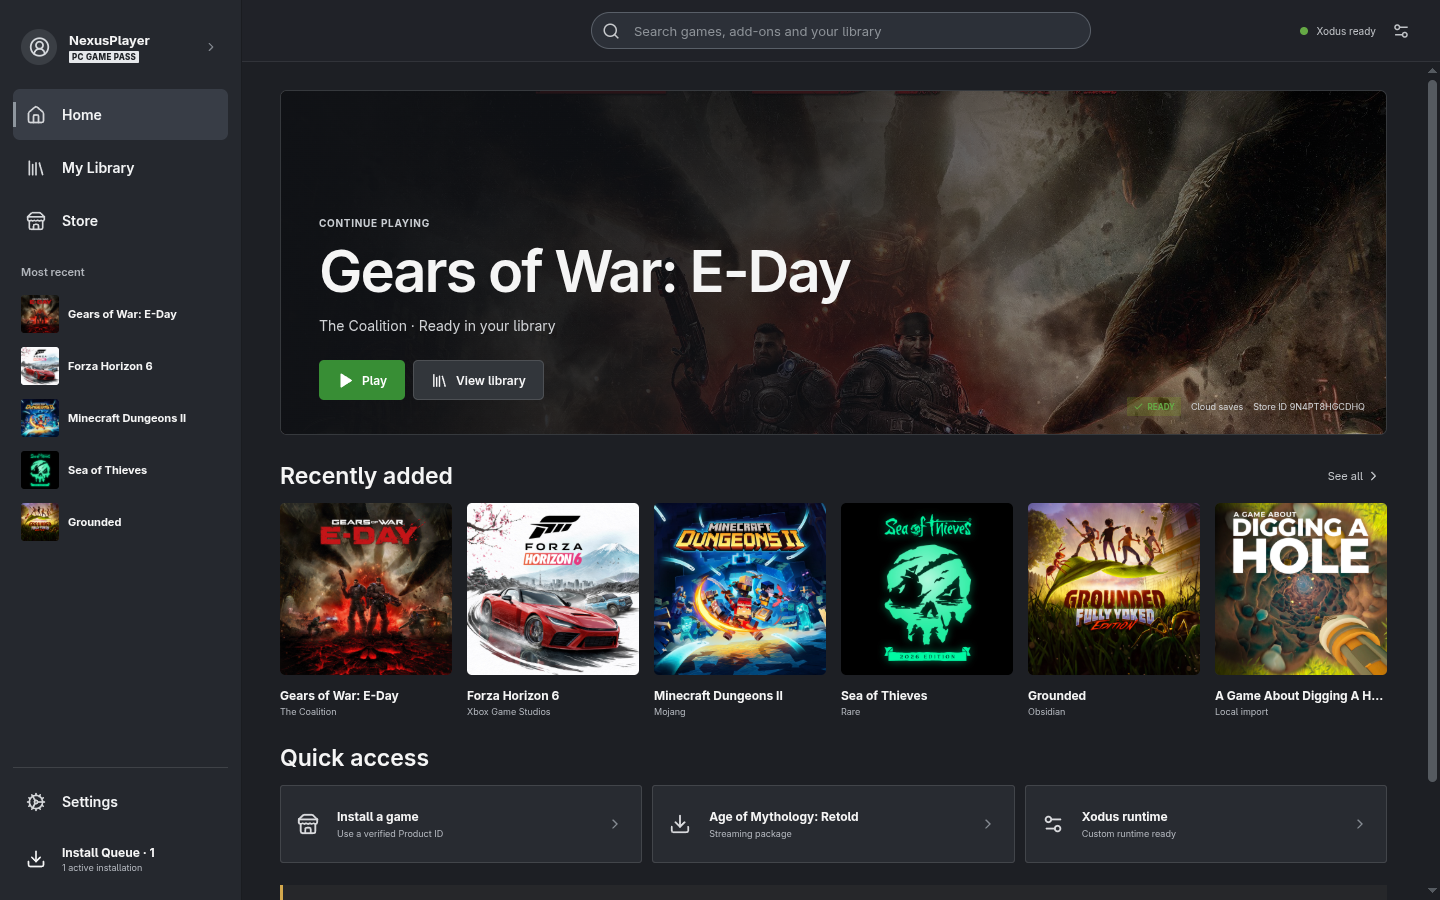
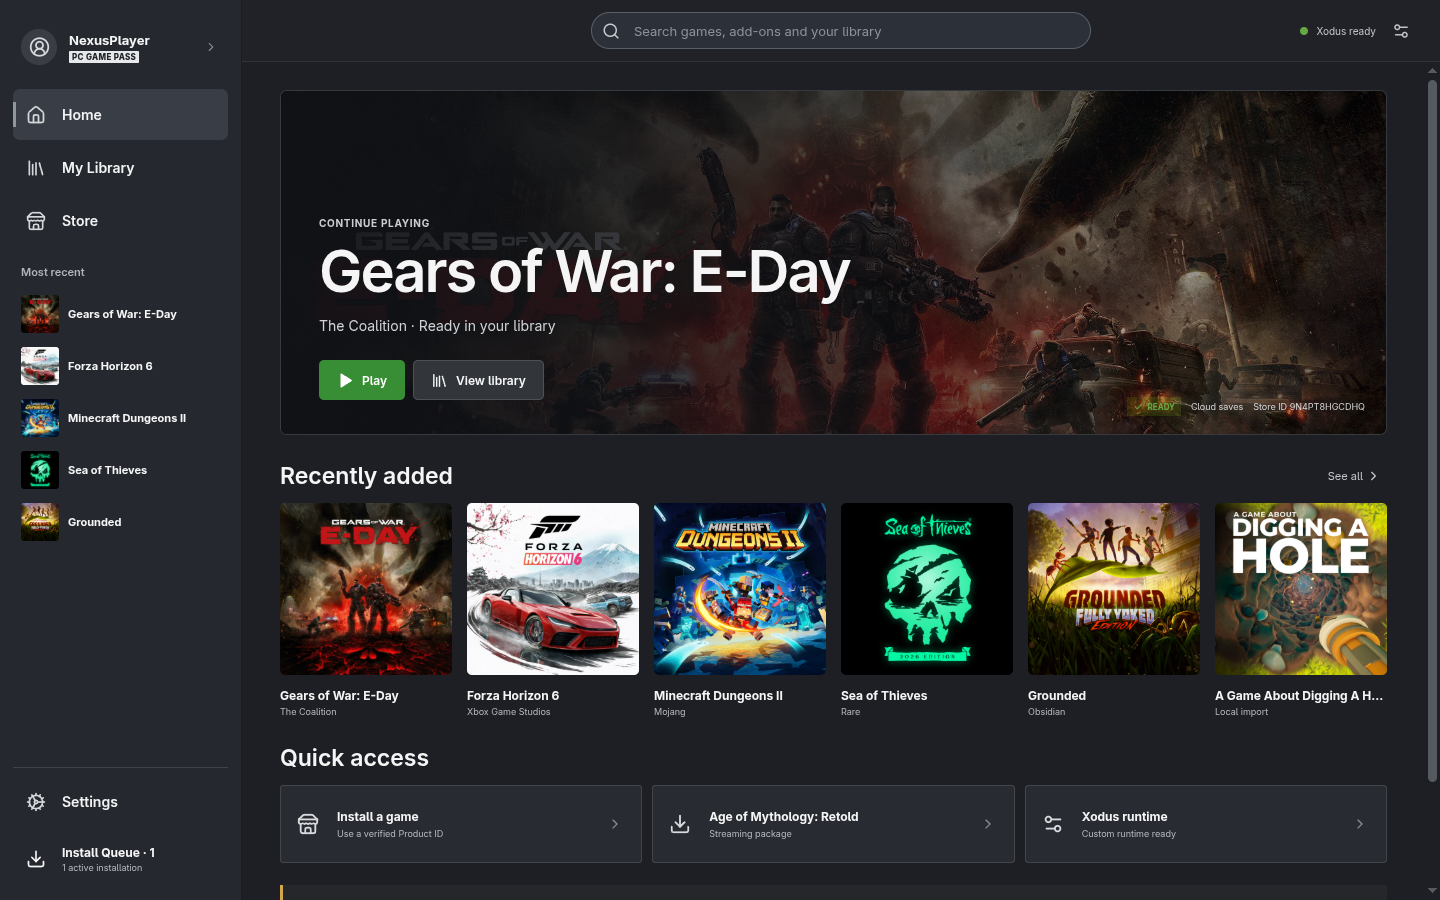
Fix default Proton game launches and prepare launcher 0.3.4

Changed region(s): [[0.4688, 0.0933, 0.9688, 0.4978], [0.9062, 0.0933, 0.9375, 0.1244], [0.375, 0.2489, 0.4062, 0.28]]

diff --git a/src/main/index.ts b/src/main/index.ts
@@ -7,7 +7,8 @@ import { randomUUID } from 'node:crypto';
 import type { ChildProcessWithoutNullStreams } from 'node:child_process';
 import type { AppSnapshot, AuthStatus, DownloadTask, Game, GameLaunchOptions, GameOperation, GameUpdate, InstallRequest, Settings } from '../shared/types.js';
 import { downloadFailure, safeProductId } from '../shared/utils.js';
-import { demoAccountLibrary, demoAccountProducts, demoDownloads, demoGames, demoLaunchOptions, demoLocales, demoSnapshot } from '../shared/demo-data.js';
+import { demoAccountLibrary, demoAccountProducts, demoDownloads, demoGames, demoLaunchOptions, demoLocales, demoSnapshot, type DemoArtwork } from '../shared/demo-data.js';
+import { backendLock } from './backend-package.js';
 import { BackendManager } from './backend.js';
 import { run, spawnTracked } from './process.js';
 import { inspectGameDirectory, StateStore } from './store.js';
@@ -21,7 +22,7 @@ import { validateGameTrashTarget } from './game-removal.js';
 import { spawnGameProcess, type GameProcess } from './game-process.js';
 import { gameLocaleEnvironment, manifestLocales, manifestTitleId, supportedGameLocale } from './game-locale.js';
 import { antiCheatEnvironment } from './anti-cheat.js';
-import { gameLaunchArguments } from './game-launch.js';
+import { gameLaunchArguments, preparedGameWine } from './game-launch.js';
 import { prepareGameWrapper, type GameWrapper } from './game-wrapper.js';
 import { normalizeLaunchTools } from '../shared/launch-tools.js';
 import { LauncherUpdater } from './launcher-update.js';
@@ -64,7 +65,7 @@ let authJob: Promise<void> | undefined;
 const catalog = new CatalogService();
 const accountLibrary = new AccountLibrary((ids, market) => catalog.licensedProducts(ids, market));
 const demoMode = process.env.XODUS_DEMO === '1';
-const demoCoverUrls = new Map<string, string>();
+const demoArtwork = new Map<string, DemoArtwork>();
 let launcherUpdater: LauncherUpdater;
 const gameUpdates: Record<string, GameUpdate> = {};
 let checkingGameUpdates = false;
@@ -134,7 +135,8 @@ function receiveLaunchRequest(id?: string): void {
 }
 
 function snapshot(): AppSnapshot {
-  if (demoMode) return demoSnapshot(demoCoverUrls);
+  if (demoMode) return demoSnapshot({ launcher: app.getVersion(), backend: backendLock.version,
+    backendCommit: backendLock.commit, backendCompatibility: backendLock.compatibility }, demoArtwork);
   return {
     backend: backend.current,
     runtime: runtime.current,
@@ -652,7 +654,7 @@ async function prepareGameLaunch(id: string): Promise<void> {
     launchWrapper = await prepareGameWrapper(wine, game.launchTools, path.join(dataRoot, 'launch-wrappers'), process.env, game.path);
     const protonRunner = await prepareProtonRunner(wine, compatibilityDataPath, steamRoot, launchWrapper.command);
     const wineCommand = protonRunner?.command ?? wine;
-    args[2] = protonRunner?.launchCommand ?? launchWrapper.command;
+    args[2] = preparedGameWine(protonRunner, launchWrapper.command);
     if (inspected.vcRedistEncrypted) {
       if (!protonRunner) throw new Error('This encrypted VC++ prerequisite requires a Proton prefix. Select Xodus Runtime in Settings.');
       const installed = await installedVcRuntimeVersion(path.join(compatibilityDataPath, 'pfx'));
@@ -871,7 +873,7 @@ async function loadDemoCovers(): Promise<void> {
     ...demoDownloads.flatMap((task) => (task.productId ? [task.productId] : [])),
     ...demoAccountProducts.map(product => product.productId),
   ])];
-  for (const [id, url] of await catalog.posters(ids, demoSnapshot().settings.market)) demoCoverUrls.set(id, url);
+  for (const [id, images] of await catalog.artwork(ids, snapshot().settings.market)) demoArtwork.set(id, images);
 }
 
 // XODUS_DEMO=1 serves sample state without touching the real backend,
@@ -900,7 +902,7 @@ function registerDemoIpc(catalogMarket: () => string): void {
   ipcMain.handle('logout', () => {});
   ipcMain.handle('catalog-search', (_event, query: string, cursor?: string) => catalog.search(query, catalogMarket(), cursor));
   ipcMain.handle('catalog-featured', () => catalog.featured(catalogMarket()));
-  ipcMain.handle('account-library', (_event, kind: 'all' | 'owned' | 'gamepass') => demoAccountLibrary(kind, demoCoverUrls));
+  ipcMain.handle('account-library', (_event, kind: 'all' | 'owned' | 'gamepass') => demoAccountLibrary(kind, demoArtwork));
   ipcMain.handle('start-install', () => 'demo-download');
   ipcMain.handle('install-plan', () => { throw Error('Package selection is unavailable in demo mode.'); });
   ipcMain.handle('game-content', (_event, id: string) => ({ gameId: id, checkedAt: new Date().toISOString(), items: [] }));
@@ -921,7 +923,7 @@ function registerDemoIpc(catalogMarket: () => string): void {
   ipcMain.handle('create-game-shortcut', () => { throw new Error('Shortcuts are unavailable in demo mode.'); });
   ipcMain.handle('install-game-vc-runtime', () => {});
   ipcMain.handle('cancel-game', () => {});
-  ipcMain.handle('update-settings', (_event, patch: Partial<Settings>) => ({ ...demoSnapshot().settings, ...patch }));
+  ipcMain.handle('update-settings', (_event, patch: Partial<Settings>) => ({ ...snapshot().settings, ...patch }));
   ipcMain.handle('choose-directory', () => null);
   ipcMain.handle('choose-file', () => null);
   ipcMain.handle('open-path', () => {});
@@ -1260,14 +1262,39 @@ async function createWindow(): Promise<void> {
   if (process.env.VITE_DEV_SERVER_URL) await mainWindow.loadURL(`${process.env.VITE_DEV_SERVER_URL}${smokeStore ? '#store' : ''}`);
   else await mainWindow.loadFile(path.join(__dirname, '..', '..', 'dist', 'index.html'), smokeStore ? { hash: 'store' } : undefined);
   if (demoCaptureDir) {
-    // Demo screenshot capture: with XODUS_DEMO=1 and XODUS_DEMO_TOUR=1 the
-    // renderer cycles pages every 7s; grab one shot per page just before
-    // each switch, offscreen, without real account data. Store artwork/catalog
-    // are fetched live; the library and queue are explicitly sample fixtures.
+    // Navigate explicitly so slow image requests cannot move a capture onto
+    // the next tour page. Only sample state and public Store data are used.
     await fs.mkdir(demoCaptureDir, { recursive: true });
+    await mainWindow.webContents.executeJavaScript(`new Promise((resolve, reject) => {
+      const deadline = Date.now() + 5000;
+      const timer = setInterval(() => {
+        if (document.querySelectorAll('.sidebar .nav-item').length >= 4 && document.querySelector('.sidebar .queue-summary')) { clearInterval(timer); resolve(); }
+        else if (Date.now() > deadline) { clearInterval(timer); reject(new Error('Demo navigation did not load')); }
+      }, 50);
+    })`);
+    const artworkUrls = [...new Set([...demoArtwork.values()].flatMap(images => [images.coverUrl, images.heroUrl]).filter(Boolean))];
+    await mainWindow.webContents.executeJavaScript(`Promise.all(${JSON.stringify(artworkUrls)}.map(url => {
+      const image = new Image(); image.src = url; return image.decode();
+    }))`);
     const pages = ['home', 'library', 'store', 'downloads', 'settings'];
+    const labels = ['Home', 'My Library', 'Store', 'Install Queue', 'Settings'];
     for (let index = 0; index < pages.length; index++) {
-      await new Promise((resolve) => setTimeout(resolve, index === 0 ? 6000 : 7000));
+      await mainWindow.webContents.executeJavaScript(`(() => {
+        const button = ${JSON.stringify(pages[index])} === 'downloads' ? document.querySelector('.sidebar .queue-summary')
+          : [...document.querySelectorAll('.sidebar .nav-item')].find(button => button.querySelector('span')?.textContent === ${JSON.stringify(labels[index])});
+        if (!button) throw new Error('Demo navigation is not ready');
+        button.click();
+      })()`);
+      await new Promise((resolve) => setTimeout(resolve, 6000));
+      await mainWindow.webContents.executeJavaScript(`(async () => {
+        await document.fonts.ready;
+        await Promise.race([
+          Promise.all([...document.images].map(image => image.decode().catch(() => {}))),
+          new Promise(resolve => setTimeout(resolve, 5000))
+        ]);
+        const broken = [...document.images].filter(image => !image.complete || image.naturalWidth === 0);
+        if (broken.length) throw new Error('Demo artwork did not finish loading');
+      })()`);
       const image = await mainWindow.webContents.capturePage();
       await fs.writeFile(path.join(demoCaptureDir, `demo-${pages[index]}.png`), image.toPNG());
     }
@@ -1329,7 +1356,11 @@ app.whenReady().then(async () => {
     // Start the cover fetch before createWindow because a demo capture
     // keeps createWindow busy until the tour finishes.
     registerIpc();
-    void loadDemoCovers().then(() => emitSnapshot(), () => { /* Covers are optional. */ });
+    if (process.env.XODUS_DEMO_CAPTURE_DIR) {
+      await loadDemoCovers();
+      if (!snapshot().games[0]?.heroUrl) throw new Error('Wide demo artwork is unavailable; capture cancelled.');
+    }
+    else void loadDemoCovers().then(() => emitSnapshot(), () => { /* Covers are optional. */ });
     await createWindow();
     app.on('activate', () => { if (BrowserWindow.getAllWindows().length === 0) void createWindow(); });
     return;

diff --git a/src/shared/demo-data.ts b/src/shared/demo-data.ts
@@ -5,6 +5,14 @@
 // the real Product IDs below. No real credentials, tokens or account data.
 import type { AccountLibraryPage, AppSnapshot, Game, GameLaunchOptions } from './types.js';
 
+export interface DemoArtwork { coverUrl?: string; heroUrl?: string }
+export interface DemoVersions {
+  launcher: string;
+  backend: string;
+  backendCommit: string;
+  backendCompatibility: string;
+}
+
 // Product IDs are real Microsoft Store products so display-catalog lookups
 // return the genuine published artwork.
 export const demoGames: Game[] = [
@@ -29,37 +37,39 @@ export const demoAccountProducts = [
   { productId: '9NPKGVXPFRSX', title: 'Age of Mythology: Retold', publisher: 'Xbox Game Studios', access: 'gamepass' as const },
 ];
 
-export function demoAccountLibrary(kind: AccountLibraryPage['kind'], covers: ReadonlyMap<string, string>): AccountLibraryPage {
+export function demoAccountLibrary(kind: AccountLibraryPage['kind'], artwork: ReadonlyMap<string, DemoArtwork>): AccountLibraryPage {
   const accessByProductId: AccountLibraryPage['accessByProductId'] = {};
   for (const [index, game] of demoGames.entries()) if (game.storeId) accessByProductId[game.storeId] = index === 1 ? 'owned' : 'gamepass';
   for (const product of demoAccountProducts) accessByProductId[product.productId] = product.access;
   return { kind, checkedAt: new Date().toISOString(), accessByProductId,
     products: demoAccountProducts.filter(product => kind === 'all' || product.access === kind).map(product => ({
       ...product, description: 'Sample library entry for the account-free demo.', categories: [],
-      posterUrl: covers.get(product.productId), installability: 'supported', supportNote: 'Demo data only.',
+      posterUrl: artwork.get(product.productId)?.coverUrl, heroUrl: artwork.get(product.productId)?.heroUrl,
+      installability: 'supported', supportNote: 'Demo data only.',
     })) };
 }
 
-export function demoSnapshot(coverUrls: ReadonlyMap<string, string> = new Map()): AppSnapshot {
+export function demoSnapshot(versions: DemoVersions = { launcher: '0.0.0', backend: '0.0.0',
+  backendCommit: '0'.repeat(40), backendCompatibility: 'demo' }, artwork: ReadonlyMap<string, DemoArtwork> = new Map()): AppSnapshot {
   return {
     backend: {
-      available: true, source: 'managed', binaryPath: '/home/demo/.config/xodus-nexus/xodus-backends/current', commit: '53ea781dcd073e31d7ea68e894134e9c959bff04', upstreamCommit: '53ea781dcd073e31d7ea68e894134e9c959bff04', updateAvailable: false, checking: false, updating: false, externalRoot: '',
+      available: true, source: 'managed', binaryPath: '/home/demo/.config/xodus-nexus/xodus-backends/current', commit: versions.backendCommit, upstreamCommit: versions.backendCommit, updateAvailable: false, checking: false, updating: false, externalRoot: '',
       capabilities: { commands: ['login', 'logout', 'download', 'streaming', 'run', 'license', 'extract', 'profile', 'library'], account: true, profile: true, library: true, login: true, externalAuth: true, logout: true, download: true, streaming: true, streamingProgressJson: true, streamingControls: true, run: true, version: '0.5.0' },
       prerequisites: { git: true, cargo: true, rustc: true, protoc: true },
-      linuxRunPatch: 'linux-run-v14',
-      version: '0.2.2', delivery: 'release', releaseAvailable: true, releaseVersion: '0.2.2',
+      linuxRunPatch: versions.backendCompatibility,
+      version: versions.backend, delivery: 'release', releaseAvailable: true, releaseVersion: versions.backend,
     },
     runtime: {
-      installed: true, checking: false, updating: false, runtimeRoot: '/home/demo/.local/share/xodus-nexus/runtimes', name: 'xodus-nexus-runtime-11.0-20261011-g3fd4ae10', winePath: '/home/demo/.local/share/xodus-nexus/runtimes/releases/xodus-nexus-runtime-11.0-20261011-g3fd4ae10/files/bin/wine', commit: 'af521bf321581c78072a147a74bb9527750a109a', nexusAvailable: true, nexusName: 'xodus-nexus-runtime-11.0-20261011-g3fd4ae10-x86_64.tar.xz', nexusVersion: 'runtime-11.0-20261011-g3fd4ae10', artifactAvailable: false,
+      installed: true, checking: false, updating: false, runtimeRoot: '/home/demo/.local/share/xodus-nexus/runtimes', name: 'xodus-nexus-runtime-demo', winePath: '/home/demo/.local/share/xodus-nexus/runtimes/demo/files/bin/wine', artifactAvailable: false,
       prerequisites: { gh: true, authenticated: true, tar: true, sha512sum: true },
     },
-    games: structuredClone([...demoGames.slice(1, 2), ...demoGames.slice(0, 1), ...demoGames.slice(2)]).map((game) => ({ ...game, coverUrl: game.storeId ? coverUrls.get(game.storeId) : undefined })),
-    downloads: structuredClone(demoDownloads).map((task) => ({ ...task, coverUrl: task.productId ? coverUrls.get(task.productId) : undefined })),
+    games: structuredClone([...demoGames.slice(1, 2), ...demoGames.slice(0, 1), ...demoGames.slice(2)]).map((game) => ({ ...game, ...(game.storeId ? artwork.get(game.storeId) : undefined) })),
+    downloads: structuredClone(demoDownloads).map((task) => ({ ...task, coverUrl: task.productId ? artwork.get(task.productId)?.coverUrl : undefined })),
     settings: { installRoot: '/home/demo/Games/Xodus Nexus', market: 'US', parallelDownloads: 4, winePath: '', externalXodusRoot: '', runtimeRoot: '', verboseLogs: false, firstRunCompleted: true },
     auth: { running: false, stored: true, username: 'sample@example.test', gamertag: 'NexusPlayer',
       subscription: { status: 'active', productIds: ['CFQ7TTC0KGQ8'], checkedAt: new Date().toISOString() },
       lastResult: 'success', note: 'Demo mode: sample data only. Store pages show the live Microsoft Store catalog.' },
-    launcherUpdate: { currentVersion: '0.3.0', checking: false, checkedAt: new Date().toISOString() },
+    launcherUpdate: { currentVersion: versions.launcher, checking: false, checkedAt: new Date().toISOString() },
   };
 }
 

diff --git a/src/main/proton.test.ts b/src/main/proton.test.ts
@@ -8,6 +8,7 @@ import { afterEach, describe, expect, it } from 'vitest';
 import { managedUnrealCultureGameIni, prefixUserLocale, prepareProtonRunner, syncPrefixUserLocale, syncUnrealCultureGameIni } from './proton.js';
 import { prepareGameWrapper } from './game-wrapper.js';
 import { defaultLaunchTools } from '../shared/launch-tools.js';
+import { preparedGameWine } from './game-launch.js';
 
 const created: string[] = [];
 const execFile = promisify(execFileCallback);
@@ -17,7 +18,7 @@ afterEach(async () => {
 });
 
 describe('prepareProtonRunner', () => {
-  it('applies game environment and arguments after runtime defaults, without wrapping setup or Stop', async () => {
+  it.each([false, true])('keeps the prefix and applies game tools only to Play (tools enabled: %s)', async (withTools) => {
     const root=await mkdtemp(path.join(tmpdir(),'nexus-proton-game-tools-')); created.push(root);
     const runtime=path.join(root,'runtime'), wine=path.join(runtime,'files/bin/wine'), compat=path.join(root,'compat');
     await mkdir(path.dirname(wine),{recursive:true}); await mkdir(path.join(runtime,'files/share/default_pfx'),{recursive:true});
@@ -26,13 +27,20 @@ describe('prepareProtonRunner', () => {
     await writeFile(path.join(runtime,'proton'),'#!/bin/sh\nexit 0\n'); await chmod(path.join(runtime,'proton'),0o700);
     await writeFile(wine,'#!/bin/sh\nprintf "%s\\n" "$WINEDLLOVERRIDES" "$DXVK_HUD" "$WINEPREFIX"; printf "<%s>\\n" "$@"\n'); await chmod(wine,0o700);
     await writeFile(path.join(runtime,'files/bin/wineserver'),'#!/bin/sh\nexit 0\n'); await chmod(path.join(runtime,'files/bin/wineserver'),0o700);
-    const wrapper=await prepareGameWrapper(wine,{...defaultLaunchTools,launchOptions:'WINEDLLOVERRIDES="dxgi=n,b;winhttp=b" DXVK_HUD=fps %command% --launcher-skip'},path.join(root,'wrappers'));
+    const wrapper=await prepareGameWrapper(wine,withTools ? {...defaultLaunchTools,launchOptions:'WINEDLLOVERRIDES="dxgi=n,b;winhttp=b" DXVK_HUD=fps %command% --launcher-skip'} : undefined,path.join(root,'wrappers'));
     const runner=(await prepareProtonRunner(wine,compat,path.join(root,'steam'),wrapper.command))!;
     const setup=await execFile(runner.command,['setup']);
     expect(setup.stdout).not.toContain('fps'); expect(setup.stdout).not.toContain('--launcher-skip');
-    const game=await execFile(runner.launchCommand!,['actual game.exe']);
-    expect(game.stdout).toContain(`dxgi=n,b;winhttp=b\nfps\n${path.join(compat,'pfx')}`);
-    expect(game.stdout).toContain('<actual game.exe>\n<--launcher-skip>');
+    const game=await execFile(preparedGameWine(runner, wrapper.command),['actual game.exe'], { env: { ...process.env, WINEPREFIX: '' } });
+    expect(game.stdout).toContain(path.join(compat,'pfx'));
+    if (withTools) {
+      expect(game.stdout).toContain(`dxgi=n,b;winhttp=b\nfps\n${path.join(compat,'pfx')}`);
+      expect(game.stdout).toContain('<actual game.exe>\n<--launcher-skip>');
+    } else {
+      expect(runner.launchCommand).toBeUndefined();
+      expect(game.stdout).toContain('<actual game.exe>');
+      expect(game.stdout).not.toContain('fps');
+    }
     expect(runner.stopPrefix.command).toBe(runner.command);
     await execFile(runner.stopPrefix.command,runner.stopPrefix.args);
   });

diff --git a/src/shared/demo-data.test.ts b/src/shared/demo-data.test.ts
@@ -1,0 +1,28 @@
+import { describe, expect, it } from 'vitest';
+import { demoAccountLibrary, demoSnapshot } from './demo-data.js';
+
+const versions = { launcher: '7.8.9', backend: '4.5.6', backendCommit: 'a'.repeat(40), backendCompatibility: 'linux-run-v99' };
+const artwork = new Map([
+  ['9N4PT8HGCDHQ', { coverUrl: 'https://example.test/gears-cover', heroUrl: 'https://example.test/gears-wide' }],
+  ['9NPKGVXPFRSX', { coverUrl: 'https://example.test/age-cover', heroUrl: 'https://example.test/age-wide' }],
+]);
+
+describe('demo presentation data', () => {
+  it('uses supplied application and backend metadata rather than old fixture versions', () => {
+    const state = demoSnapshot(versions);
+    expect(state.launcherUpdate?.currentVersion).toBe(versions.launcher);
+    expect(state.backend).toMatchObject({ version: versions.backend, releaseVersion: versions.backend,
+      commit: versions.backendCommit, linuxRunPatch: versions.backendCompatibility });
+    expect(state.runtime.name).toBe('xodus-nexus-runtime-demo');
+  });
+
+  it('preserves separate box art and landscape art for home, library and account entries', () => {
+    const state = demoSnapshot(versions, artwork);
+    expect(state.games[0]).toMatchObject(artwork.get('9N4PT8HGCDHQ')!);
+    expect(state.games[0].heroUrl).not.toBe(state.games[0].coverUrl);
+    expect(state.downloads[0].coverUrl).toBe(artwork.get('9NPKGVXPFRSX')!.coverUrl);
+    expect(demoAccountLibrary('gamepass', artwork).products[0]).toMatchObject({
+      posterUrl: artwork.get('9NPKGVXPFRSX')!.coverUrl, heroUrl: artwork.get('9NPKGVXPFRSX')!.heroUrl,
+    });
+  });
+});

diff --git a/src/main/game-launch.test.ts b/src/main/game-launch.test.ts
@@ -1,8 +1,18 @@
 import { describe, expect, it } from 'vitest';
-import { gameLaunchArguments } from './game-launch.js';
+import { gameLaunchArguments, preparedGameWine } from './game-launch.js';
 import { LINUX_RUN_PATCH } from './backend.js';
 
 describe('generic package launch', () => {
+  it('keeps the prepared Proton prefix runner when no launch tools are enabled', () => {
+    const wine = preparedGameWine({ command: '/compat/pfx-runner' }, '/runtime/wine');
+    expect(gameLaunchArguments({ path: '/package', executable: 'Dungeons.exe' }, wine, '', LINUX_RUN_PATCH)[2])
+      .toBe('/compat/pfx-runner');
+  });
+  it('uses the prepared game runner for tools and the configured wrapper without Proton', () => {
+    expect(preparedGameWine({ command: '/compat/pfx-runner', launchCommand: '/compat/game-runner' }, '/tools/wrapper'))
+      .toBe('/compat/game-runner');
+    expect(preparedGameWine(undefined, '/tools/wrapper')).toBe('/tools/wrapper');
+  });
   it.each(['start_protected_game.exe', 'Dungeons.exe', 'FSD/Binaries/WinGDK/Shipping.exe', 'Game.exe'])(
     'uses the manifest entry and the same launch policy for %s', (executable) => {
       const args = gameLaunchArguments({ path: '/package', executable }, '/runtime/wine', 'US', LINUX_RUN_PATCH);

diff --git a/src/main/game-launch.ts b/src/main/game-launch.ts
@@ -1,6 +1,11 @@
 import type { Game } from '../shared/types.js';
 import { LINUX_RUN_PATCH } from './backend.js';
 
+/** The prepared runner owns WINEPREFIX and runtime libraries, even without tools. */
+export function preparedGameWine(runner: { command: string; launchCommand?: string } | undefined, fallback: string): string {
+  return runner?.launchCommand ?? runner?.command ?? fallback;
+}
+
 /** One package launch policy. Runtime/backend, never title names, own compatibility. */
 export function gameLaunchArguments(
   game: Pick<Game, 'path' | 'executable'>,

diff --git a/src/shared/runtime-display.test.ts b/src/shared/runtime-display.test.ts
@@ -5,6 +5,7 @@ import { runtimeDisplay } from './runtime-display';
 describe('runtimeDisplay', () => {
   it('uses the installed Nexus version, not an available update', () => {
     const runtime = demoSnapshot().runtime;
+    runtime.name = 'xodus-nexus-runtime-11.0-20261011-g3fd4ae10';
     runtime.nexusVersion = 'runtime-11.0-newer';
     expect(runtimeDisplay(runtime)).toEqual({ title: 'Nexus runtime', source: 'Nexus runtime', version: '11.0-20261011-g3fd4ae10' });
   });

diff --git a/CHANGELOG.md b/CHANGELOG.md
@@ -1,5 +1,10 @@
 # Changelog
 
+## 0.3.4
+
+- Fix games failing to launch with a WINEPREFIX error when no custom launch options or overlays are enabled.
+- Correct the demo's version display and use wide Store artwork for banners and game details.
+
 ## 0.3.3
 
 - Offer Continue in browser when Microsoft passkey sign-in is waiting, including during first-time setup. Requires Google Chrome installed on the computer; other browsers are not supported.

diff --git a/.github/release-notes/launcher-0.3.4.md b/.github/release-notes/launcher-0.3.4.md
@@ -1,0 +1,4 @@
+# Xodus Nexus 0.3.4
+
+- Fix games failing to launch with a WINEPREFIX error when no custom launch options or overlays are enabled.
+- Correct the demo's version display and use wide Store artwork for banners and game details.
